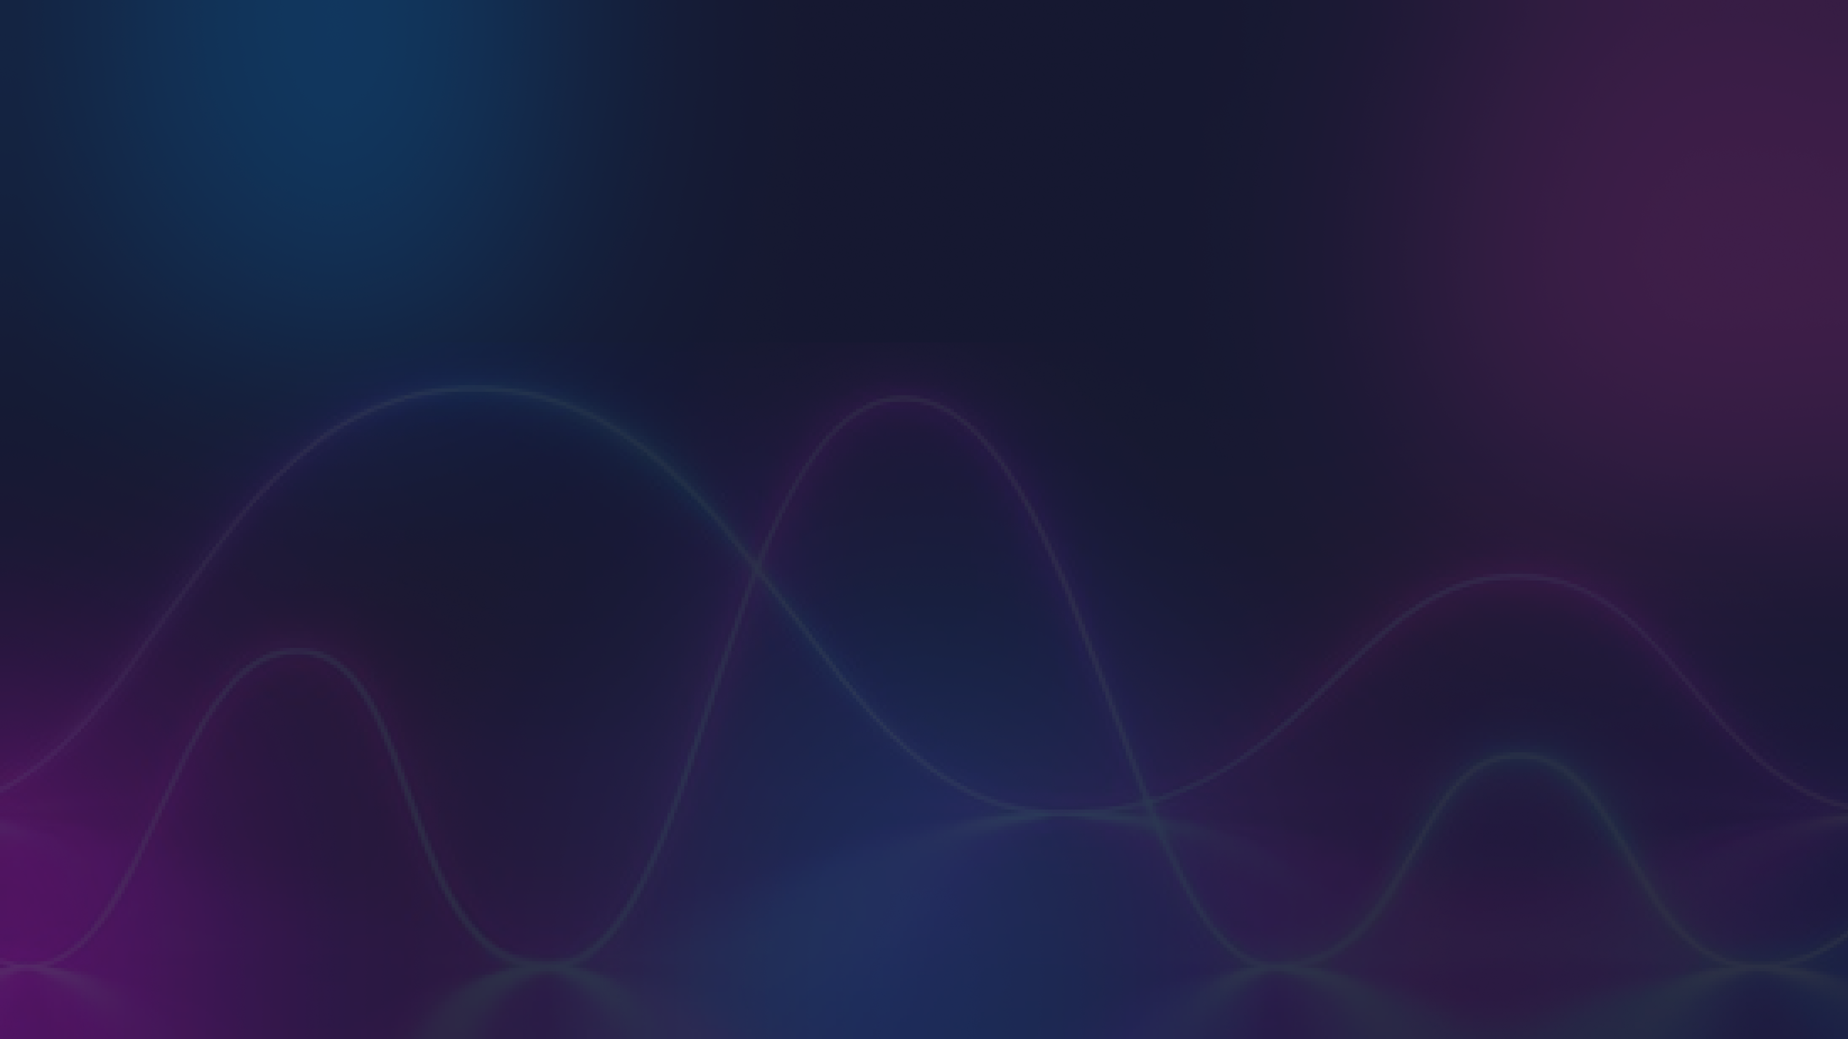
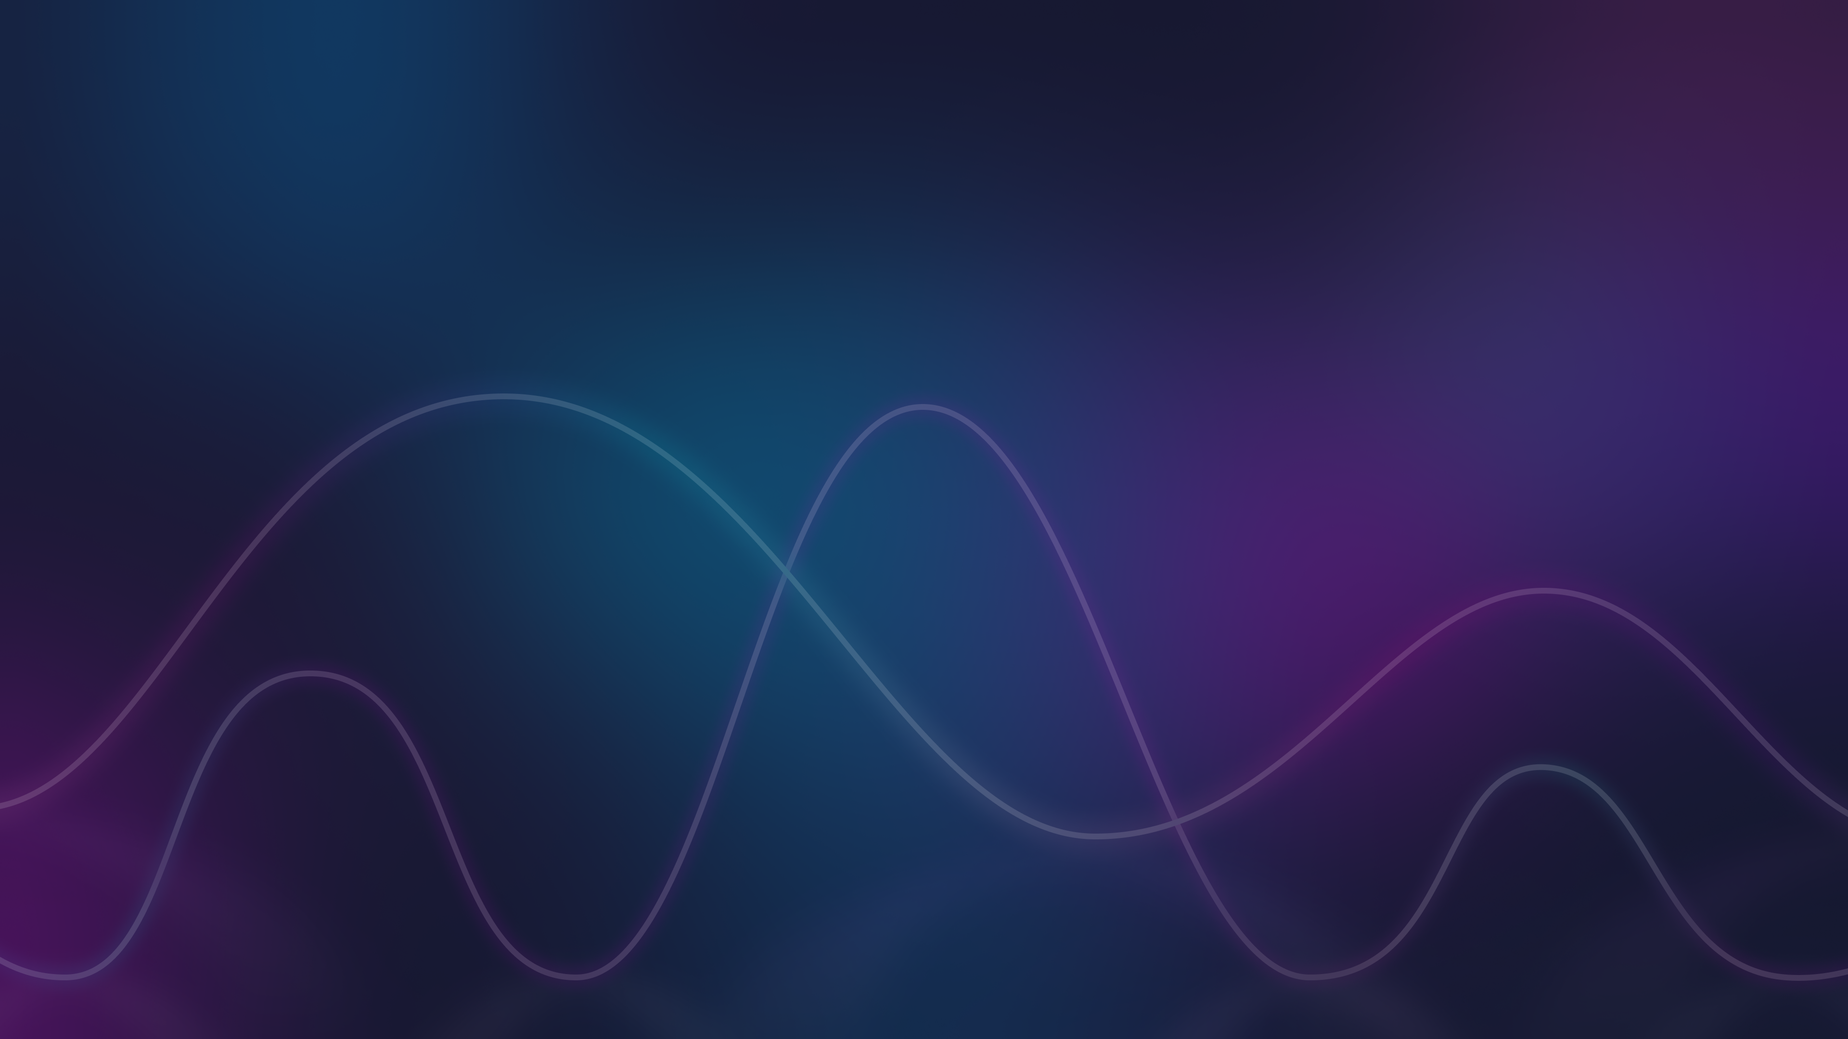
update website

diff --git a/index.html b/index.html
@@ -1,1 +1,1 @@
-<!doctype html><html lang="en"><head><meta charset="UTF-8"><meta http-equiv="X-UA-Compatible" content="IE=edge"><meta name="viewport" content="width=device-width,initial-scale=1"><title>RIFFIAN</title><link rel="icon" href="src/img/favicon.png"/><script defer="defer" src="src/js/main.bundle.js"></script><link href="src/css/main.css" rel="stylesheet"></head><body><div class="fixed top-0 left-0 w-full z-30 text-white h-16 flex items-center blur-1 hidden" id="nav-float"><div class="max-w-screen-xl mx-auto xl:px-0 px-10 flex justify-between w-full"><div><img src="src/img/logo-1.png" alt="" class="w-8"></div><div class="grid grid-cols-6 gap-4"><a class="nav-link block active" href="#home">Home</a> <a class="nav-link block" href="#data">Data</a> <a class="nav-link block" href="#riffian">Riffian</a> <a class="nav-link block" href="#artists">ARTISTS</a> <a class="nav-link block" href="#events">Events</a> <a class="nav-link block" href="#events">Community</a></div></div><div class="absolute top-0 left-0 w-full blur-sm h-full -z-50"></div></div><div class="section hero" id="home"><div class="relative"><div class="bg-blur absolute w-full left-0 top-0 !z-20 flex items-center" id="nav-home"><div class="flex justify-between text-white w-full max-w-screen-xl mx-auto items-center xl:px-0 px-10"><div class="w-20"><a class="nav-link active block" href="#home">Home</a></div><div class="w-20"><a class="nav-link block" href="#data">Data</a></div><div class="w-20"><a class="nav-link block" href="#riffian">Riffian</a></div><div class="w-20"><img src="src/img/logo.png" alt=""></div><div class="w-20"><a class="nav-link block" href="#artists">ARTISTS</a></div><div class="w-20"><a class="nav-link block" href="#events">Events</a></div><div class="w-20"><a class="nav-link block" href="#events">Community</a></div></div></div><div class="absolute bg-filter w-full h-full left-0 top-0"><img src="src/img/filter.png" alt=""></div><div class="absolute w-full h-full left-0 top-0 flex justify-center items-center text-white text-center text-6xl xl:text-8xl uppercase">Elevate Your Impact<br>Compose Your Assets</div><img src="src/img/bg-1.png" alt=""></div></div><div class="section relative" id="data"><div class="absolute w-full h-full left-0 top-0 text-left text-6xl md:text-4xl"><div class="xl:px-0 px-10 max-w-screen-xl mx-auto mt-36 bg-clip-text text-transparent bg-gradient-to-r from-white to-pink-500">Empower Music Lovers to Embrace a Sharing Lifestyle<br>While Enabling Artists to Create<br>And Monetize Their Value</div></div><img src="src/img/bg-2.jpg" alt="" class="min-h-[700px]"></div><div class="section relative" id="riffian"><div class="absolute w-full h-full left-0 top-0 flex justify-center flex-col"><div class="text-center text-white text-4xl">THE RIFFIAN</div><div class="lowercase text-white text-md text-center mt-4">RIFFIAN IS A WEB3 LIFESTYLE APP THAT REWARDS USERS FOR MOVEMENT<br>USERS EQUIPPED WITH STEPN NFTs CAN EARN BY WALKING, JOGGING AND RUNNING OUTDOORS</div><div class="xl:px-0 px-10 max-w-screen-xl mx-auto grid grid-cols-3 gap-4 mt-10"><div class="w-full rounded-lg bg-gradint-1"><div class="rounded-lg bg-gradient-to-r from-blue-800 to-pink-800 h-full p-4"><div class="rounded-md overflow-hidden relative"><div class="absolute top-0 left-0 w-full h-full flex justify-center items-center uppercase text-white text-3xl">promotion</div><img src="src/img/image 10.png" alt=""></div><div class="mt-2 text-white">Deeper connection, artists gain support from fans and create better works in return</div></div></div><div class="w-full rounded-lg bg-gradint-1"><div class="rounded-lg bg-gradient-to-r from-blue-800 to-pink-800 h-full p-4"><div class="rounded-md overflow-hidden relative"><div class="absolute top-0 left-0 w-full h-full flex justify-center items-center uppercase text-white text-3xl">chart</div><img src="src/img/image 11.png" alt=""></div><div class="mt-2 text-white">Opening the participation of music content to all. Benefiting from investing in content.</div></div></div><div class="w-full rounded-lg bg-gradint-1"><div class="rounded-lg bg-gradient-to-r from-blue-800 to-pink-800 h-full p-4"><div class="rounded-md overflow-hidden relative"><div class="absolute top-0 left-0 w-full h-full flex justify-center items-center uppercase text-white text-3xl">live-mint</div><img src="src/img/image 12.png" alt=""></div><div class="mt-2 text-white">Best user experience, NFC and blockchain integration, Crossing web2 and web3</div></div></div></div></div><img src="src/img/bg-3.png" alt="" class="min-h-[700px]"></div><div class="section relative" id="artists"><div class="absolute w-full h-full left-0 top-0 flex justify-center flex-col"><div class="text-center text-white text-4xl">ARTISTS</div><div class="lowercase text-white text-md text-center mt-4">Thousands of artists across dozens of genres—including electronic, hip-hop,<br>and more – forge unparalleled connections with fans.</div><div class="xl:px-0 px-10 max-w-screen-xl mx-auto grid grid-cols-4 gap-4 mt-10"><div class="w-full rounded-lg bg-gradint-1"><div class="rounded-lg bg-color-1 p-2"><div class="rounded-md overflow-hidden relative"><img src="src/img/art-1.png" alt=""></div><div class="text-xl text-white mt-2">Elyn Leong</div><div class="mt-2 text-white text-sm">Deeper connection, artists gain support from fans and create better works in return</div><div class="mt-2 border-t border-gray-500 flex justify-between py-2"><div class="w-10"><img src="src/img/twitter.png" alt=""></div><div class="w-10"><img src="src/img/tiktok.png" alt=""></div><div class="w-10"><img src="src/img/youtube.png" alt=""></div><div class="w-10"><img src="src/img/instagram.png" alt=""></div></div></div></div><div class="w-full rounded-lg bg-gradint-1"><div class="rounded-lg bg-color-1 p-2"><div class="rounded-md overflow-hidden relative"><img src="src/img/art-2.png" alt=""></div><div class="text-xl text-white mt-2">JoyceChu</div><div class="mt-2 text-white text-sm">Deeper connection, artists gain support from fans and create better works in return</div><div class="mt-2 border-t border-gray-500 flex justify-between py-2"><div class="w-10"><img src="src/img/twitter.png" alt=""></div><div class="w-10"><img src="src/img/tiktok.png" alt=""></div><div class="w-10"><img src="src/img/youtube.png" alt=""></div><div class="w-10"><img src="src/img/instagram.png" alt=""></div></div></div></div><div class="w-full rounded-lg bg-gradint-1"><div class="rounded-lg bg-color-1 p-2"><div class="rounded-md overflow-hidden relative"><img src="src/img/art-3.png" alt=""></div><div class="text-xl text-white mt-2">Danny Koo</div><div class="mt-2 text-white text-sm">Deeper connection, artists gain support from fans and create better works in return</div><div class="mt-2 border-t border-gray-500 flex justify-between py-2"><div class="w-10"><img src="src/img/twitter.png" alt=""></div><div class="w-10"><img src="src/img/tiktok.png" alt=""></div><div class="w-10"><img src="src/img/youtube.png" alt=""></div><div class="w-10"><img src="src/img/instagram.png" alt=""></div></div></div></div><div class="w-full rounded-lg bg-gradint-1"><div class="rounded-lg bg-color-1 p-2"><div class="rounded-md overflow-hidden relative"><img src="src/img/art-4.png" alt=""></div><div class="text-xl text-white mt-2">Priscilla Abby</div><div class="mt-2 text-white text-sm">Deeper connection, artists gain support from fans and create better works in return</div><div class="mt-2 border-t border-gray-500 flex justify-between py-2"><div class="w-10"><img src="src/img/twitter.png" alt=""></div><div class="w-10"><img src="src/img/tiktok.png" alt=""></div><div class="w-10"><img src="src/img/youtube.png" alt=""></div><div class="w-10"><img src="src/img/instagram.png" alt=""></div></div></div></div></div></div><img src="src/img/bg-4.png" alt="" class="min-h-[700px]"></div><div class="section relative overflow-hidden" id="events"><div class="absolute w-full h-full left-0 top-0 flex justify-center flex-col"><div class="text-center text-white text-4xl">LATEST EVENTS</div><div class="lowercase text-white text-md text-center mt-4">Stay tuned for more updates</div><div class="xl:px-0 px-10 max-w-screen-xl mx-auto grid grid-cols-3 gap-4 mt-10"><div class="w-full rounded-lg bg-gradint-1"><div class="rounded-lg bg-color-1 p-4"><div class="text-xl text-white mt-2">AMA 500U</div><img src="src/img/l-1.png" alt="" class="mt-4"><div class="text-white text-sm mt-4">DOID is an infrastructure for everyone. Your DOID is your self-sovereign decentralized OpenID, and a safer, faster, and easier entrance to chains, contacts, and dApps.</div><div class="mt-4 border-t border-gray-500 flex justify-between py-4 text-white"><div>NOV 15TH,2023</div><div>17:18</div></div></div></div><div class="w-full rounded-lg bg-gradint-1"><div class="rounded-lg bg-color-1 p-4"><div class="text-xl text-white mt-2">DOID</div><img src="src/img/l-2.png" alt="" class="mt-4"><div class="text-white text-sm mt-4">DOID is an infrastructure for everyone. Your DOID is your self-sovereign decentralized OpenID, and a safer, faster, and easier entrance to chains, contacts, and dApps.</div><div class="mt-4 border-t border-gray-500 flex justify-between py-4 text-white"><div>NOV 15TH,2023</div><div>17:18</div></div></div></div><div class="w-full rounded-lg bg-gradint-1"><div class="rounded-lg bg-color-1 p-4"><div class="text-xl text-white mt-2">NFT REWARDS</div><img src="src/img/l-3.png" alt="" class="mt-4"><div class="text-white text-sm mt-4">DOID is an infrastructure for everyone. Your DOID is your self-sovereign decentralized OpenID, and a safer, faster, and easier entrance to chains, contacts, and dApps.</div><div class="mt-4 border-t border-gray-500 flex justify-between py-4 text-white"><div>NOV 15TH,2023</div><div>17:18</div></div></div></div></div></div><img src="src/img/bg-5.png" alt="" class="min-h-[700px]"><div class="footer absolute bottom-0 left-0 w-full h-20 blur-1 !z-20 flex items-center"><div class="xl:px-0 px-10 max-w-screen-xl mx-auto w-full flex justify-between"><div class="flex items-center text-white"><img src="src/img/logo-1.png" alt="" class="w-8"> <span class="uppercase ml-2">riffian.global</span></div><div class="grid grid-cols-5 gap-4"><img src="src/img/twitter.png" alt="" class="w-6"> <img src="src/img/instagram1.png" alt="" class="w-6"> <img src="src/img/youtube1.png" alt="" class="w-6"> <img src="src/img/tiktok.png" alt="" class="w-6"> <img src="src/img/discord.png" alt="" class="w-6"></div></div></div></div><script></script></body></html>
+<!doctype html><html lang="en"><head><meta charset="UTF-8"><meta http-equiv="X-UA-Compatible" content="IE=edge"><meta name="viewport" content="width=device-width,initial-scale=1"><title>RIFFIAN</title><link rel="icon" href="src/img/favicon.png"/><script defer="defer" src="src/js/main.bundle.js"></script><link href="src/css/main.css" rel="stylesheet"></head><body><div class="fixed top-0 left-0 w-full z-30 text-white h-16 flex items-center blur-1 hidden" id="nav-float"><div class="max-w-screen-xl mx-auto xl:px-0 px-10 flex justify-between w-full"><div><img src="src/img/logo-1.png" alt="" class="w-8"></div><div class="grid grid-cols-6 gap-4"><a class="nav-link block active" href="#home">Home</a> <a class="nav-link block" href="#data">Data</a> <a class="nav-link block" href="#riffian">Riffian</a> <a class="nav-link block" href="#artists">ARTISTS</a> <a class="nav-link block" href="#events">Events</a> <a class="nav-link block" href="#events">Community</a></div></div><div class="absolute top-0 left-0 w-full blur-sm h-full -z-50"></div></div><div class="section hero" id="home"><div class="relative"><div class="bg-blur absolute w-full left-0 top-0 !z-20 flex items-center" id="nav-home"><div class="flex justify-between text-white w-full max-w-screen-xl mx-auto items-center xl:px-0 px-10"><div class="w-20"><a class="nav-link active block" href="#home">Home</a></div><div class="w-20"><a class="nav-link block" href="#data">Data</a></div><div class="w-20"><a class="nav-link block" href="#riffian">Riffian</a></div><div class="w-20"><img src="src/img/logo.png" alt=""></div><div class="w-20"><a class="nav-link block" href="#artists">ARTISTS</a></div><div class="w-20"><a class="nav-link block" href="#events">Events</a></div><div class="w-20"><a class="nav-link block" href="#events">Community</a></div></div></div><div class="absolute bg-filter w-full h-full left-0 top-0"><img src="src/img/filter.png" alt=""></div><div class="absolute w-full h-full left-0 top-0 flex justify-center items-center text-white text-center text-6xl xl:text-8xl uppercase">Elevate Your Impact<br>Compose Your Assets</div><img src="src/img/bg-1.png" alt=""></div></div><div class="section relative" id="data"><div class="absolute w-full h-full left-0 top-0 text-left text-6xl md:text-4xl"><div class="xl:px-0 px-10 max-w-screen-xl mx-auto mt-36 bg-clip-text text-transparent bg-gradient-to-r from-white to-pink-500">Empower People Who Enjoy Life to Embrace a Sharing<br>Lifestyle while Enabling Artists to<br>Create Their Value</div></div><img src="src/img/bg-2.png" alt="" class="min-h-[700px]"></div><div class="section relative" id="riffian"><div class="absolute w-full h-full left-0 top-0 flex justify-center flex-col"><div class="text-center text-white text-4xl">What is Riffian</div><div class="text-white text-md text-center mt-4">RIFFIAN breaks through the limitations of tradition,<br>allowing enthusiasts to collectively shape a new platform for the new era</div><div class="xl:px-0 px-10 max-w-screen-xl mx-auto grid grid-cols-3 gap-4 mt-10"><div class="w-full rounded-lg bg-gradint-1"><div class="rounded-lg bg-gradient-to-r from-blue-800 to-pink-800 h-full p-4"><div class="rounded-md overflow-hidden relative"><div class="absolute top-0 left-0 w-full h-full flex justify-center items-center uppercase text-white text-3xl">promotion</div><img src="src/img/image 10.png" alt=""></div><div class="mt-2 text-white">Deeper connection, artists gain support from fans and create better works in return</div></div></div><div class="w-full rounded-lg bg-gradint-1"><div class="rounded-lg bg-gradient-to-r from-blue-800 to-pink-800 h-full p-4"><div class="rounded-md overflow-hidden relative"><div class="absolute top-0 left-0 w-full h-full flex justify-center items-center uppercase text-white text-3xl">chart</div><img src="src/img/image 11.png" alt=""></div><div class="mt-2 text-white">Opening the participation of music content to all. Benefiting from investing in content.</div></div></div><div class="w-full rounded-lg bg-gradint-1"><div class="rounded-lg bg-gradient-to-r from-blue-800 to-pink-800 h-full p-4"><div class="rounded-md overflow-hidden relative"><div class="absolute top-0 left-0 w-full h-full flex justify-center items-center uppercase text-white text-3xl">live-mint</div><img src="src/img/image 12.png" alt=""></div><div class="mt-2 text-white">Best user experience, NFC and blockchain integration, Crossing web2 and web3</div></div></div></div></div><img src="src/img/bg-3.png" alt="" class="min-h-[700px]"></div><div class="section relative" id="artists"><div class="absolute w-full h-full left-0 top-0 flex justify-center flex-col"><div class="text-center text-white text-4xl">ARTISTS</div><div class="text-white text-md text-center mt-4">Thousands of artists across dozens of genres—including electronic, hip-hop,<br>and more – forge unparalleled connections with fans.</div><div class="xl:px-0 px-10 max-w-screen-xl mx-auto grid grid-cols-4 gap-4 mt-10"><div class="w-full rounded-lg bg-gradint-1"><div class="rounded-lg bg-color-1 p-2 flex flex-col justify-between"><div><div class="rounded-md overflow-hidden relative"><img src="src/img/art-1.png" alt=""></div><div class="text-xl text-white mt-2">Elyn Leong</div><div class="mt-2 text-white text-sm">Known as the "post-00s goddess", Elyn Leong is called the "star of tomorrow" and performs her own extraordinary in an ordinary world.</div></div><div class="mt-2 border-t border-gray-500 flex justify-between py-2"><a class="w-10 block" href="https://twitter.com/elynIeong" target="_blank"><img src="src/img/twitter.png" alt=""> </a><a class="w-10 block" href="https://www.tiktok.com/@elynlyl" target="_blank"><img src="src/img/tiktok.png" alt=""> </a><a class="w-10 block" href="https://www.youtube.com/@elynleonggg" target="_blank"><img src="src/img/youtube.png" alt=""> </a><a class="w-10 block" href="" target="_blank"><img src="src/img/instagram.png" alt="https://www.instagram.com/elynleonggg/"></a></div></div></div><div class="w-full rounded-lg bg-gradint-1"><div class="rounded-lg bg-color-1 p-2 flex flex-col justify-between"><div><div class="rounded-md overflow-hidden relative"><img src="src/img/art-2.png" alt=""></div><div class="text-xl text-white mt-2">JoyceChu</div><div class="mt-2 text-white text-sm">singer/actor Song masterpieces:《Miss You So Much》,《Malaysian Cha》 Tiktok hot song 《Inexplicably Falling in Love with You》</div></div><div class="mt-2 border-t border-gray-500 flex justify-between py-2"><a class="w-10 block" href="https://twitter.com/JoyceChuu" target="_blank"><img src="src/img/twitter.png" alt=""> </a><a class="w-10 block" href="https://www.tiktok.com/@syc_joycechu" target="_blank"><img src="src/img/tiktok.png" alt=""> </a><a class="w-10 block" href="https://www.youtube.com/@theCLOVERJOYCE" target="_blank"><img src="src/img/youtube.png" alt=""> </a><a class="w-10 block" href="https://www.instagram.com/syc_joycechu_/" target="_blank"><img src="src/img/instagram.png" alt=""></a></div></div></div><div class="w-full rounded-lg bg-gradint-1"><div class="rounded-lg bg-color-1 p-2 h-full flex flex-col justify-between"><div><div class="rounded-md overflow-hidden relative"><img src="src/img/art-3.png" alt=""></div><div class="text-xl text-white mt-2">Danny Koo</div><div class="mt-2 text-white text-sm">TV Host/Singer/Creator children who love to sing, music for life</div></div><div class="mt-2 border-t border-gray-500 flex justify-between py-2"><a class="w-10 block" href="https://twitter.com/Danny_koo" target="_blank"><img src="src/img/twitter.png" alt=""> </a><a class="w-10 block" href="https://www.tiktok.com/@dannyahboy?_t=8accbezrxep&_r=1" target="_blank"><img src="src/img/tiktok.png" alt=""> </a><a class="w-10 block" href="https://www.youtube.com/@Danny_ahboy" target="_blank"><img src="src/img/youtube.png" alt=""> </a><a class="w-10 block" href="https://www.instagram.com/danny_ahboy" target="_blank"><img src="src/img/instagram.png" alt=""></a></div></div></div><div class="w-full rounded-lg bg-gradint-1"><div class="rounded-lg bg-color-1 p-2 h-full flex flex-col justify-between"><div><div class="rounded-md overflow-hidden relative"><img src="src/img/art-4.png" alt=""></div><div class="text-xl text-white mt-2">Priscilla Abby</div><div class="mt-2 text-white text-sm">someone who loves singing and having fun</div></div><div class="mt-2 border-t border-gray-500 flex justify-between py-2"><a class="w-10 block" href="https://twitter.com/PriscillaAbby5" target="_blank"><img src="src/img/twitter.png" alt=""> </a><a class="w-10 block" href="https://www.tiktok.com/@priscillaabby" target="_blank"><img src="src/img/tiktok.png" alt=""> </a><a class="w-10 block" href="https://www.youtube.com/@PriscillaAbby" target="_blank"><img src="src/img/youtube.png" alt=""> </a><a class="w-10 block" href="https://www.instagram.com/priscillaabbychai/" target="_blank"><img src="src/img/instagram.png" alt=""></a></div></div></div></div></div><img src="src/img/bg-4.png" alt="" class="min-h-[700px]"></div><div class="section relative overflow-hidden" id="events"><div class="absolute w-full h-full left-0 top-0 flex justify-center flex-col"><div class="text-center text-white text-4xl">LATEST EVENTS</div><div class="lowercase text-white text-md text-center mt-4">Stay tuned for more updates</div><div class="xl:px-0 px-10 max-w-screen-xl mx-auto grid grid-cols-3 gap-4 mt-10"><div class="w-full rounded-lg bg-gradint-1"><a class="rounded-lg bg-color-1 p-4 h-full flex flex-col justify-between" href="https://twitter.com/DoidFoundation/status/1594972904994721792" target="_blank"><div><div class="text-xl text-white mt-2">AMA 500U</div><img src="src/img/l-1.png" alt="" class="mt-4"><div class="text-white text-sm mt-4">Mint your #doidlockpass and reserve your desired name for your web3 signature now for free.</div></div><div class="mt-4 border-t border-gray-500 flex justify-between py-4 text-white"><div>NOV 15TH,2023</div><div>17:18</div></div></a></div><div class="w-full rounded-lg bg-gradint-1"><a class="rounded-lg bg-color-1 p-4 h-full flex flex-col justify-between" href="https://twitter.com/DoidFoundation/status/1687646638796664832" target="_blank"><div><div class="text-xl text-white mt-2">DOID</div><img src="src/img/l-2.png" alt="" class="mt-4"><div class="text-white text-sm mt-4">😎😎The test match is about to start, welcome to pay attention and share the early benefits of DOID！#NFT #testnetairdrop #whitelist #NFTGiveaway</div></div><div class="mt-4 border-t border-gray-500 flex justify-between py-4 text-white"><div>NOV 15TH,2023</div><div>17:18</div></div></a></div><div class="w-full rounded-lg bg-gradint-1"><a class="rounded-lg bg-color-1 p-4 flex flex-col justify-between" target="_blank" href="https://twitter.com/RiffianGlobal/status/1726374248007278754"><div><div class="text-xl text-white mt-2">NFT REWARDS</div><img src="src/img/l-3.png" alt="" class="mt-4"><div class="text-white text-sm mt-4">🎉RIFFIAN's Discord server is now live! Join us for exclusive rewards, music insights, and a vibrant community connection. 🚀🎵 ✨Connect with artists and music lovers 🔍 Get first access to news and rewards 🌟 Be part of our innovative music journey</div></div><div class="mt-4 border-t border-gray-500 flex justify-between py-4 text-white"><div>NOV 15TH,2023</div><div>17:18</div></div></a></div></div></div><img src="src/img/bg-5.png" alt="" class="min-h-[700px]"><div class="footer absolute bottom-0 left-0 w-full h-20 blur-1 !z-20 flex items-center"><div class="xl:px-0 px-10 max-w-screen-xl mx-auto w-full flex justify-between"><div class="flex items-center text-white"><img src="src/img/logo-1.png" alt="" class="w-8"> <span class="uppercase ml-2">riffian.global</span></div><div class="grid grid-cols-5 gap-4"><img src="src/img/twitter.png" alt="" class="w-6"> <img src="src/img/instagram1.png" alt="" class="w-6"> <img src="src/img/youtube1.png" alt="" class="w-6"> <img src="src/img/tiktok.png" alt="" class="w-6"> <img src="src/img/discord.png" alt="" class="w-6"></div></div></div></div><script></script></body></html>
